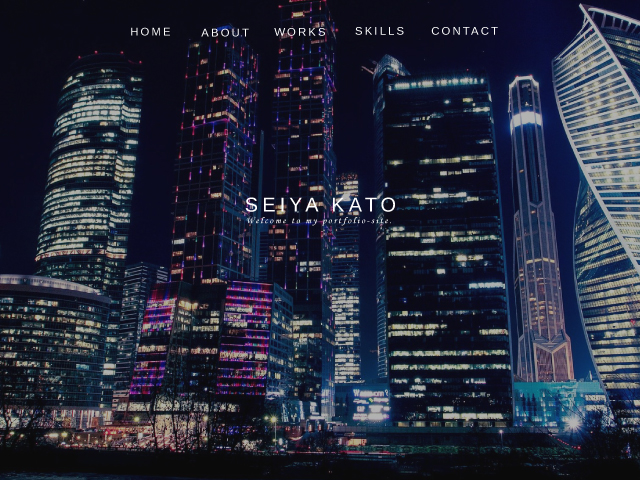
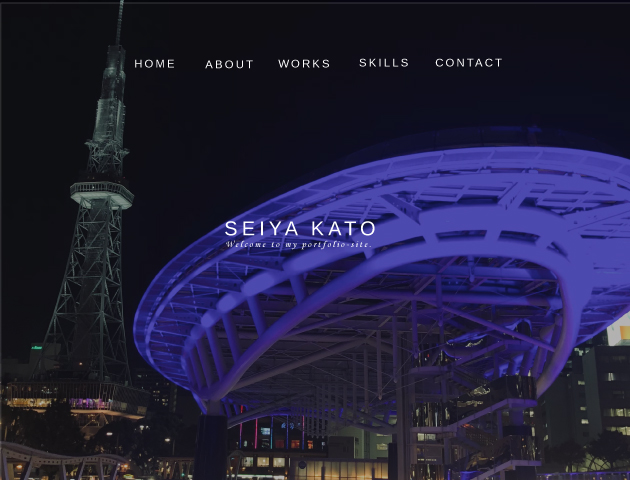
recommit

diff --git a/pages/index.vue b/pages/index.vue
@@ -3,8 +3,8 @@
         <Header />
         <div class="index">
             <div class="header">
-                <transition>
-                    <div v-if="show" class="site-wrapper">
+                <transition name="header">
+                    <div v-show="show" class="site-wrapper">
                         <h1 class="site-title">SEIYA KATO</h1>
                         <h3 class="site-description">Welcome to my portfolio-site.</h3>
                     </div>
@@ -12,23 +12,31 @@
             </div>
             <section class="about">
                 <div class="heading-wrapper">
-                    <h2 class="heading" id="about">ABOUT</h2>
+                    <h2 class="heading" id="about" >ABOUT</h2>
                 </div>
                 <div class="about-wrapper">
                 <v-container>
                     <v-row justify="space-around">
                     <v-col md="8">
-                        <h4 class="my-name">Seiya Kato</h4>
-                        <p class="about-subtxt">I'm aiming to be a front end engineer</p>
-                        <p class="about-text">
-                        初めまして。ご覧いただきありがとうございます。<br>
-                        名古屋在住の営業マンでwebサイトを作成することに興味を持ち<br>
-                        フロントエンドエンジニアを目指し日々勉強しています。<br>
-                        スタイリッシュで少しのユーモアがあるサイト制作をしていきたいです。
-                        </p>
+                        <transition name="name">
+                            <div v-show="visible">
+                                <h4 class="my-name">Seiya Kato</h4>
+                                <p class="about-subtxt">I'm aiming to be a front end engineer</p>
+                            </div>
+                        </transition>
+                        <transition name="text">
+                            <p class="about-text" v-show="visible">
+                            初めまして。ご覧いただきありがとうございます。<br>
+                            名古屋在住の営業マンでwebサイトを作成することに興味を持ち<br>
+                            フロントエンドエンジニアを目指し日々勉強しています。<br>
+                            スタイリッシュで少しのユーモアがあるサイト制作をしていきたいです。
+                            </p>
+                        </transition>
                     </v-col>  
                     <v-col>
-                        <img src="../images/img-me.jpg">
+                        <transition name="img">
+                            <img src="../images/img-me.jpg" v-show="visible">
+                        </transition>
                     </v-col>
                     </v-row>
                 </v-container>
@@ -110,6 +118,7 @@
                         </v-row>
                     </v-container>
                 </div>
+            
             </section>
             <section class="skills">
                 <div class="heading-wrapper">
@@ -119,14 +128,18 @@
                     <v-container>
                         <v-row>
                             <v-col md="6" cols="12">
-                                <p class="skill-text">
+                                <transition name="text">
+                                <p class="skill-text" v-show="visible2">
                                 HTML/CSSと並行してJavascriptを学びつつ徐々にJQueryに移行していきましたが
                                 Vueを使用することでの多くの利点を知り現在はNuxtをメインに使用しています。<br>
                                 PHPやMySQLは現在基礎を学んだ段階ですが今後も継続的に学ぶつもりです。<br>
                                 浮かんだアイディアを具現化するためにも幅広くスキルを習得していきたいと考えています。
                                 </p>
+                                </transition>
                             </v-col>
                             <v-col md="6" cols="12">
+                                <transition name="img">
+                                <div v-show="visible2">
                                 <v-row justify="center">
                                 <div class="skillbar clearfix " data-percent="94%">
                                     <div class="skillbar-title">HTML/CSS<span >44%</span></div>
@@ -162,6 +175,8 @@
                                     <div class="skill-bar-percent"></div>
                                 </div> <!-- End Skill Bar -->  
                                 </v-row>
+                                </div>
+                                </transition>
                             </v-col>   
                         </v-row>
                     </v-container>
@@ -171,10 +186,11 @@
                 <div class="heading-wrapper">
                     <h2 class="heading" id="contact">CONTACT</h2>
                 </div>
-                <v-form class="contact-form">
-                    <v-text-field label="NAME" filled clearable color="grey darken-3"></v-text-field>
-                    <v-text-field label="E-mail" filled clearable color="grey darken-3"></v-text-field>
-                    <v-textarea label="MESSAGE" filled clearable color="grey darken-3"></v-textarea>
+                <v-form name="contact" method="POST" class="contact-form" netlify >
+                    <v-text-field label="NAME" name="name" filled clearable color="grey darken-3"></v-text-field>
+                    <v-text-field label="E-mail" name="email" filled clearable color="grey darken-3"></v-text-field>
+                    <input type="hidden" name="form-name" value="contact" />
+                    <v-textarea label="MESSAGE" name="message" filled clearable color="grey darken-3"></v-textarea>
                     <v-row justify="center">
                         <v-btn
                         x-large
@@ -202,6 +218,8 @@ data(){
     return{
         isView: false,
         show:false,
+        visible:false,
+        visible2:false,
         worklists:[
             {
                 title: 'SEIYA KATO',
@@ -244,6 +262,14 @@ methods: {
         } else {
         this.isView = false;
         }
+        if (!this.visible) {
+        const top = this.$el.getBoundingClientRect().top;
+        this.visible = top < window.innerHeight + 100;
+        }
+        if (!this.visible2) {
+        const top = this.$el.getBoundingClientRect().top;
+        this.visible2 = top < window.innerHeight + 100;
+        }
     },
     change_class: function() {
     this.isView = !this.isView
@@ -258,15 +284,6 @@ a{
 }
 #home{
     max-width: 100%;
-}
-.v-enter-active {
-    transition: opacity 3s;
-}
-.v-enter {
-    opacity: 0;
-}
-.v-enter-to {
-    opacity: 1;
 }
 .v-btn{
     font-family: 'Montserrat', sans-serif;
@@ -287,6 +304,47 @@ a{
 a{
     color:#fff;
 }
+/* --------------------------------
+* transition
+* -------------------------------- */
+.header-enter-active {
+    transition: opacity 4s;
+}
+.header-enter {
+    opacity: 0;
+}
+.header-enter-to {
+    opacity: 1;
+}
+
+.text-enter-active {
+    transition: opacity 3s;
+}
+.text-enter {
+    opacity: 0;
+}
+.text-enter-to {
+    opacity: 1;
+}
+
+.name-enter-active {
+    transition: opacity 2s;
+}
+.name-enter {
+    opacity: 0;
+}
+.name-enter-to {
+    opacity: 1;
+}
+
+.img-enter-active, .img-leave-active {
+    transform: translate(0px, 0px);
+    transition: transform 1s cubic-bezier(0, 0, 0.2, 1) 0s;
+}
+.img-enter, .img-leave-to {
+    transform: translateX(100vw) translateX(0px);
+}
+
 /* --------------------------------
 * parts
 * -------------------------------- */
@@ -318,13 +376,16 @@ a{
 /* --------------------------------
 * header
 * -------------------------------- */
-.header {
-    position:relative;
-    text-align: center;
-    background: #151515 url('../images/night.jpg') center center / cover no-repeat fixed;
-    background-size: cover;
+
+.header{
+    width: 100%;
     height: 100vh;
-    
+    padding-top: 50%;
+    position:relative;
+    background: url('../images/night.jpg');
+    background-repeat: no-repeat;
+    background-position: center center;
+    background-size: cover;
 }
 .site-wrapper{
     position:absolute;
@@ -424,7 +485,6 @@ a{
 .work-img{
     width:100%;
 }
-
 /* --------------------------------
 * skills
 * -------------------------------- */
@@ -513,18 +573,19 @@ a{
 .send-btn{
     margin-top: 20px;
 }
-
-
-
 /* --------------------------------
 * responsive
 * -------------------------------- */
 @media (max-width: 1024px) {
-    body {
-        background-image: none;
-    }
     .header{
-        position: relative;
+        width: 100%;
+        height: 100vh;
+        padding-top: 50%;
+        position:relative;
+        background: url('../images/night-m.jpg');
+        background-repeat: no-repeat;
+        background-position: center center;
+        background-size: cover;
     }
     .site-wrapper{
         text-align: center;
@@ -537,7 +598,6 @@ a{
     
     .header{
         position: relative;
-        
     }
     .site-wrapper{
         text-align: center;
@@ -550,14 +610,18 @@ a{
     
     .heading {
         margin-top: 20px;
-        font-size: 2.5rem;
-    }
-    .button:hover {
-        opacity: 1;
+        font-size: 1.5rem;
     }
     /* --- header --- */
     .header{
-        position: relative;
+        width: 100%;
+        height: 100vh;
+        padding-top: 50%;
+        position:relative;
+        background: url('../images/night-s.jpg');
+        background-repeat: no-repeat;
+        background-position: center center;
+        background-size: cover;
     }
     .site-wrapper{
         text-align: center;
@@ -576,10 +640,7 @@ a{
         line-height: 1.8;
     }
     /* --- works --- */
-    
-    .work-description {
-        position: relative;
-    }
+
     .work-title{
         font-size:25px;
     }
